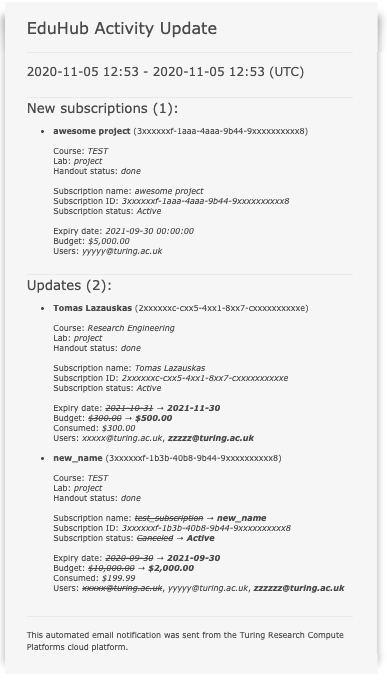
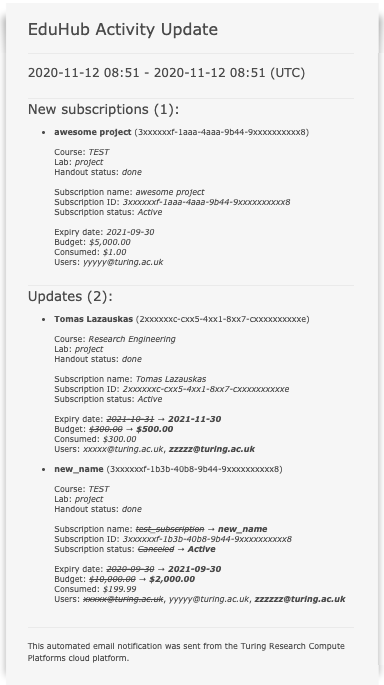
Time-based notifications

diff --git a/__app__/edunotice/notifications.py b/__app__/edunotice/notifications.py
@@ -160,6 +160,9 @@ def new_sub_details_html(lab_dict, sub_dict, new_sub):
         new_sub_html += "&#9 Expiry date: <i>%s</i><br>" % (new_sub.subscription_expiry_date)
 
     new_sub_html += "&#9 Budget: <i>${:,.2f}</i> <br>".format(new_sub.handout_budget)
+    
+    new_sub_html += "&#9 Consumed: <i>%s</i><br>" % ("${:,.2f}".format(new_sub.handout_consumed))
+
     new_sub_html += "&#9 Users: <i>%s</i><br><br>" % (new_sub.subscription_users)
 
     return new_sub_html
@@ -425,8 +428,21 @@ def indiv_email_new(lab_dict, sub_dict, new_sub):
     # Communications
     html_middle += '<div><b>Communications:</b> EduNotice will send the following communications</div>'
     html_middle += '<div><ul>'
-    html_middle += '<li><b>Confirmation email:</b> EduNotice will send an email denoting the registration of the subscription.</li>'
-    html_middle += '<li><b>Update email:</b> EduNotice will send notification emails denoting changes in your subscription details.</li>'
+    html_middle += '<li><b>Confirmation:</b> an email denoting the registration of the subscription.</li><br>'
+    html_middle += '<li><b>Updates:</b> notification emails denoting changes in the subscription details.</li><br>'
+    html_middle += '<li><b>Time-based:</b> notification emails denoting the amount of time remaining in the subscription duration according to the following schedule.</li>'
+    html_middle += '<ul>'
+    html_middle += '<li>Notification 1: 30 days before end</li>'
+    html_middle += '<li>Notification 2: 7 days before end</li>'
+    html_middle += '<li>Notification 3: 1 day before end</li>'
+    html_middle += '</ul><br>'
+    html_middle += '<li><b>Usage-based:</b> notification emails denoting the monetary amount remaining in the subscription according to the following schedule.</li>'
+    html_middle += '<ul>'
+    html_middle += '<li>Notification 1: 50% of monetary credit has been used</li>'
+    html_middle += '<li>Notification 2: 75% of monetary credit has been used</li>'
+    html_middle += '<li>Notification 3: 90% of monetary credit has been used</li>'
+    html_middle += '<li>Notification 4: 95% of monetary credit has been used</li>'
+    html_middle += '</ul>'
     html_middle += '</ul></div>'
     html_middle += '<br><div style="border-bottom:1px solid #ededed"></div><br>'
 

diff --git a/tests/test_notifications.py b/tests/test_notifications.py
@@ -81,7 +81,7 @@ def test_summary():
     assert success, error
 
     assert success, error
-    assert len(html_content) == 2305
+    assert len(html_content) == 2367
 
     ################### UPDATE 2
 
@@ -104,7 +104,7 @@ def test_summary():
         latest_timestamp_utc, success_timestamp_utc)
 
     assert success, error
-    assert len(html_content) == 3427
+    assert len(html_content) == 3457
 
     # checking if the log message was created for the update
     session = session_open(ENGINE)
@@ -146,13 +146,18 @@ def test_indiv_email_new():
     success, error, lab_dict, sub_dict, sub_new_list, sub_update_list, success_timestamp_utc = update_edu_data(ENGINE, eduhub_df)
 
     assert success, error
-    assert len(sub_new_list) == 1
+    assert len(sub_new_list) == 2
     assert len(sub_update_list) == 0
 
     success, error, html_content = indiv_email_new(lab_dict, sub_dict, sub_new_list[0])
     
     assert success, error
-    assert len(html_content) == 4081
+    assert len(html_content) == 3779
+
+    success, error, html_content = indiv_email_new(lab_dict, sub_dict, sub_new_list[1])
+    
+    assert success, error
+    assert len(html_content) == 4754
 
 
 def test_indiv_email_update():
@@ -165,9 +170,14 @@ def test_indiv_email_update():
 
     assert success, error
     assert len(sub_new_list) == 0
-    assert len(sub_update_list) == 1
+    assert len(sub_update_list) == 2
 
     success, error, html_content = indiv_email_upd(lab_dict, sub_dict, sub_update_list[0])
 
     assert success, error
     assert len(html_content) == 3448
+
+    success, error, html_content = indiv_email_upd(lab_dict, sub_dict, sub_update_list[1])
+
+    assert success, error
+    assert len(html_content) == 3209

diff --git a/tests/test_expiry.py b/tests/test_expiry.py
@@ -101,7 +101,7 @@ def test_expiry():
     success, error, lab_dict, sub_dict, sub_new_list, sub_update_list, success_timestamp_utc = update_edu_data(ENGINE, eduhub_df)
     
     assert success, error
-    assert len(sub_new_list) == 3
+    assert len(sub_new_list) == 5
     assert len(sub_update_list) == 0
 
     # 2 updates
@@ -111,7 +111,7 @@ def test_expiry():
     
     assert success, error
     assert len(sub_new_list) == 1
-    assert len(sub_update_list) == 3
+    assert len(sub_update_list) == 5
 
     # expires in the future (more than 30 days)
     sub_details = sub_update_list[0][1]
@@ -123,14 +123,14 @@ def test_expiry():
     _, expiry_code, remain_days = check_remaining_time(sub_details.subscription_expiry_date, current_date=current_date)
     success, error, html_content = indiv_email_expiry_notification(lab_dict, sub_dict, sub_details, expiry_code, remain_days)
     
-    assert len(html_content) == 3184
+    assert len(html_content) == 3209
 
     # expires in 1 day
     sub_details = sub_update_list[2][1]
     _, expiry_code, remain_days = check_remaining_time(sub_details.subscription_expiry_date, current_date=current_date)
     success, error, html_content = indiv_email_expiry_notification(lab_dict, sub_dict, sub_details, expiry_code, remain_days)
 
-    assert len(html_content) == 3182
+    assert len(html_content) == 3207
 
     # send notifications
     success, error = notify_expiring_subs(ENGINE, lab_dict, sub_dict, sub_new_list, sub_update_list, current_date=current_date)

diff --git a/__app__/edunotice/expiry.py b/__app__/edunotice/expiry.py
@@ -4,7 +4,7 @@ Time-based notifications module
 
 from datetime import datetime, timezone
 
-from edunotice.notifications import indiv_email_expiry_notification
+from edunotice.notifications import indiv_email_expiry_notification, details_changed
 from edunotice.sender import send_email
 from edunotice.utilities import log
 from edunotice.db import session_open, session_close
@@ -16,6 +16,7 @@ from edunotice.constants import (
     CONST_EXPR_CODE_7,
     CONST_EXPR_CODE_30,
     CONST_EMAIL_SUBJECT_EXPIRE,
+    CONST_SUB_CANCELLED,
 )
 
 def check_remaining_time(expiry_date, current_date=datetime.utcnow().date()):
@@ -139,6 +140,10 @@ def notify_expiring_subs(engine, lab_dict, sub_dict, new_sub_list, upd_sub_list,
 
         prev_details = sub_update[0]
         new_details = sub_update[1]
+
+        # only for active subscriptions. If subscription is cancelled, it should have been notified 
+        if (new_details.subscription_status.lower() == CONST_SUB_CANCELLED.lower()):
+            continue
 
         # check if subscription is about to expire
         expires, expiry_code, remain_days = check_remaining_time(new_details.subscription_expiry_date, current_date=current_date)

diff --git a/__app__/edunotice/edunotice.py b/__app__/edunotice/edunotice.py
@@ -12,6 +12,7 @@ from edunotice.constants import (
     SQL_CONNECTION_STRING_DB,
     CONST_EMAIL_SUBJECT_NEW,
     CONST_EMAIL_SUBJECT_UPD,
+    CONST_SUB_CANCELLED,
 )
 from edunotice.notifications import (
     summary, 
@@ -97,8 +98,19 @@ def _indv_emails(engine, lab_dict, sub_dict, new_sub_list, upd_sub_list):
         prev_details = sub_update[0]
         new_details = sub_update[1]
 
+        send_upd_email = False
+
         # check which subsciptions have chaged details
         if details_changed(prev_details, new_details):
+            send_upd_email = True
+
+        elif ((new_details.subscription_status.lower() == CONST_SUB_CANCELLED.lower())
+            and not details_changed(prev_details, new_details)
+            and (prev_details.handout_consumed != new_details.handout_consumed)):
+
+            send_upd_email = True
+        
+        if send_upd_email:
             
             success, error, html_content = indiv_email_upd(lab_dict, sub_dict, sub_update)
 

diff --git a/__app__/edunotice/structure.py b/__app__/edunotice/structure.py
@@ -124,15 +124,18 @@ class DetailsClass(BASE):
 
     timestamp_utc = Column(DateTime, nullable=False)
 
+    # creation/update notifications
     new_flag = Column(Boolean, default=False)
     update_flag = Column(Boolean, default=False)
-    email_sent = Column(DateTime) # about subscription creation or update
+    email_sent = Column(DateTime)
 
     # time-based notifications
     expiry_code = Column(Integer)
     expiry_notice_sent = Column(DateTime)
 
     # usage-based notifications
+    usage_code = Column(Integer)
+    usage_notice_sent = Column(DateTime)
 
     time_created = Column(DateTime(), server_default=func.now())
     time_updated = Column(DateTime(), onupdate=func.now())

diff --git a/README.md b/README.md
@@ -6,13 +6,35 @@ An Azure Function App that registers changes in the Education section of portal.
 
 Created and designed by <a href="https://github.com/tomaslaz">Tomas Lazauskas</a>.
 
+## Summary
+
+EduNotice sends the following communications to users:
+
+* **Confirmation**: an email denoting the registration of the subscription.
+
+* **Updates**: notification emails denoting changes in the subscription details.
+
+* **Time-based**: notification emails denoting the amount of time remaining in the subscription duration according to the following schedule.
+ - Notification 1: 30 days before end
+ - Notification 2: 7 days before end
+ - Notification 3: 1 day before end
+
+
+* **Usage-based**: notification emails denoting the monetary amount remaining in the subscription according to the following schedule.
+ - Notification 1: 50% of monetary credit has been used
+ - Notification 2: 75% of monetary credit has been used
+ - Notification 3: 90% of monetary credit has been used
+ - Notification 4: 95% of monetary credit has been used
+
+EduNotice sends the following communications to admins:
+
+* **Summary**: notification emails denoting changes EduHub activity since the last update.
+
 ## Email examples
 
-#### Summary
-
-<p align="left">
-  <img src="media/email_examples/summary.png" width="250">
-</p>
+| Confirmation | Summary |
+|---|---|
+| <p align="left"><img src="media/email_examples/confirmation.png" width="350"></p> | <p align="left"><img src="media/email_examples/summary.png" width="350"></p>|
 
 ## Prerequisites/Configuration/Set up
 
